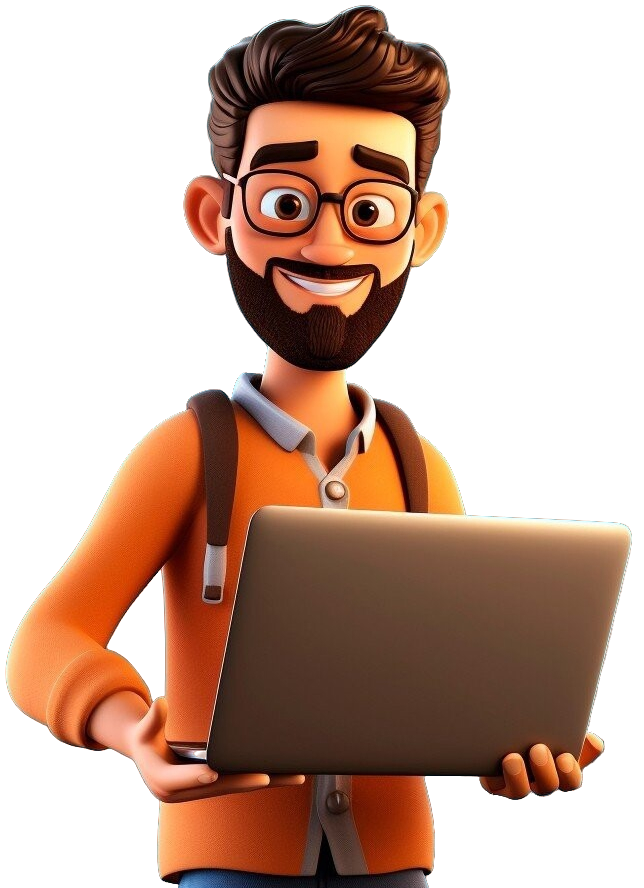
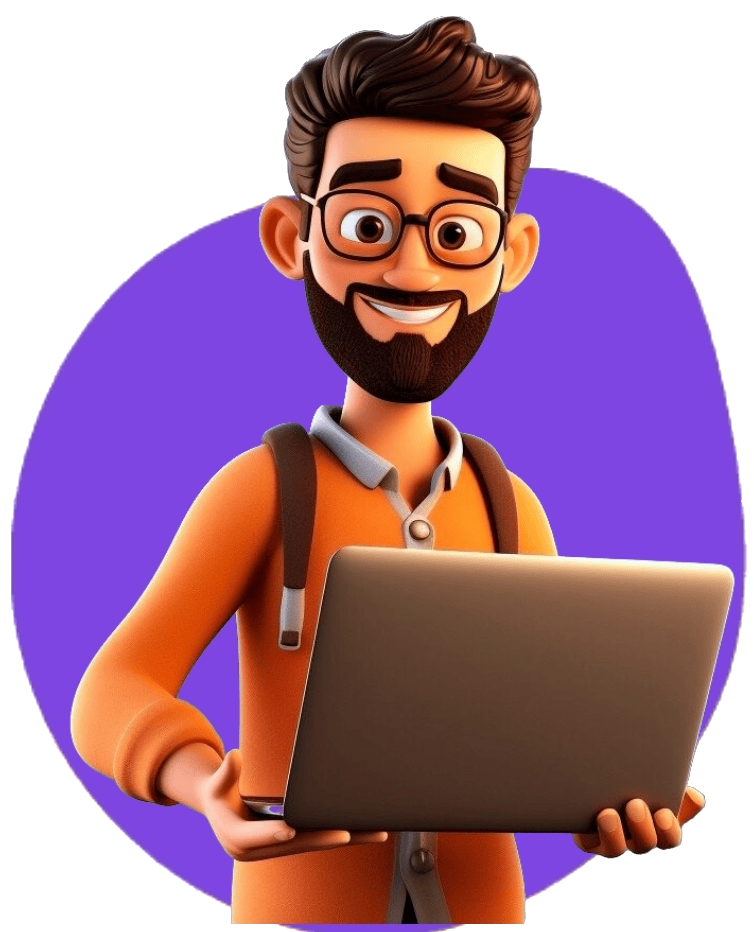
Version 3 About page Uf

diff --git a/src/pages/HomePage.jsx b/src/pages/HomePage.jsx
@@ -1,29 +1,47 @@
 import myProfile from "../assets/images/myProfile.png";
 import MyAccounts from "../components/MyAccounts";
+import { TypeAnimation } from "react-type-animation";
 // import backGround from "../assets/images/background.png";
 
 const HomePage = ({ homeRef }) => {
     
     return (
-        <section ref={homeRef} className="font-poppins flex items-center justify-center bg-no-repeat">
-            <div className="px-[5rem] mt-[3rem] z-50">
+        <section ref={homeRef} className="font-poppins h-lvh flex items-center justify-center bg-no-repeat">
+            <div className="px-[5rem] mt-[4rem] z-50">
                 <div className="flex items-center justify-evenly p-3 gap-2 md:flex-row flex-col-reverse">
-                    <div className="basis-[50%]">
-                        <p className="mb-3 text-xl md:text-left text-center">Hi I'm Marc </p>
-                        <h2 className="text-5xl font-bold mb-2 text-secondary">I'm a FrontEnd Web Dev.</h2>
-                        <p className="text-[14px] mb-8">Lorem ipsum dolor, sit amet consectetur adipisicing elit. Provident eaque quisquam ipsum dolor illum! Harum, asperiores.</p>
-                        <div>
+                    <div className="min-w-[50%] basis-[50%]">
+                        <p className="mb-3 md:text-left text-center text-zinc-500 text-xl">Hi I'm Marc </p>
+                        <h1 className="text-6xl font-bold mb-2 text-secondary text-center md:text-left">
+                            <span>
+                                <p className="mb-4">
+                                    I'm a
+                                </p>
+                            </span>
+                            <TypeAnimation 
+                                sequence={[
+                                    "Frontend Dev",
+                                    1000,
+                                    "Web Designer",
+                                    1000,
+                                ]}
+                                wrapper="span"
+                                speed={50}
+                                repeat={Infinity}
+                            />
+                        </h1>
+                        <p className="text-[14px] mb-8 md:text-left text-center">Lorem ipsum dolor, sit amet consectetur adipisicing elit. Provident eaque quisquam ipsum dolor illum! Harum, asperiores.</p>
+                        <div className="mb-3">
                             <MyAccounts />
                         </div>
                     </div>
                     
-                    <div>   
+                    <div className="bg-hero-bg bg-contain ">   
                         <img 
                             src={myProfile} 
                             alt="my picture" 
                             className="md:w-[450px] w-[300px] mb-4"
                         />
-                    </div>
+                    </div> 
                 </div>
             </div>
         </section>

diff --git a/src/pages/AboutPage.jsx b/src/pages/AboutPage.jsx
@@ -1,15 +1,21 @@
+import myProfile from "../assets/images/myProfile.png";
+
 const AboutPage = ({ aboutRef }) => {
     return (
-        <section ref={aboutRef} className="h-lvh">
-            <div className="px-[5rem] mt-[5rem] border-2 border-green-400">
-                <div>
-                    <div className="p-3">
-                        <h1>About Me</h1>
-                        <p>I am a passionate and detail-oriented frontend developer with a keen eye for design and a love for creating seamless user experiences. With a strong foundation in HTML, CSS, and JavaScript, I specialize in translating design concepts into responsive and interactive web applications. I am dedicated to staying up-to-date with the latest technologies and trends in the rapidly evolving field of web development.</p>
+        <section ref={aboutRef} className="h-lvh bg-gray-100 flex items-center justify-center mt-[4rem]">
+            <div className="px-[5rem] mt-[4rem]">
+                <div className="p-3 flex items-center justify-center gap-3 md:flex-row flex-col">
+                    <div className="basis-[40%] flex items-center justify-center ">
+                        <img 
+                            src={myProfile} 
+                            alt="About me profile" 
+                            className="md:w-[450px] w-[350px]"
+                        />
                     </div>
 
-                    <div>
-
+                    <div className="p-3 basis-[45%] ">
+                        <h1 className="md:text-5xl text-4xl font-semibold text-secondary mb-3  md:text-left text-center">About Me</h1>
+                        <p className="leading-2 text-[13px]  md:text-left text-center mb-[3rem]">I am a passionate and detail-oriented frontend developer with a keen eye for design and a love for creating seamless user experiences. With a strong foundation in HTML, CSS, and JavaScript, I specialize in translating design concepts into responsive and interactive web applications. I am dedicated to staying up-to-date with the latest technologies and trends in the rapidly evolving field of web development.</p>
                     </div>
                 </div>
             </div>

diff --git a/src/components/Nav.jsx b/src/components/Nav.jsx
@@ -4,6 +4,7 @@ import { FaMoon, FaBars, FaSun, FaXRay } from 'react-icons/fa';
 import { Menu, X } from "lucide-react";
 
 
+
 const Nav = ({ handleSmoothScroll, homeRef, aboutRef, skillsRef, servicesRef, contactRef }) => {
    const [isSticky, setIsSticky] = useState(false);
    const [isDark, setIsDark] = useState(false);
@@ -33,7 +34,7 @@ const Nav = ({ handleSmoothScroll, homeRef, aboutRef, skillsRef, servicesRef, co
    },[]);
 
    return (
-      <nav className={`fixed w-full top-0 left-0 z-[999] transition-all ${isSticky ? 'bg-gray-50 ' : 'bg-transparent text-red'}`}>
+      <nav className={`fixed w-full top-0 left-0 z-[999] transition-all ${isSticky ? 'bg-gray-50' : 'bg-transparent'}`}>
          <div className="flex items-center justify-between h-[4rem] w-full md:px-[9rem] px-[4rem] font-poppins text-primary relative">
                <div>
                   <img 
@@ -66,14 +67,14 @@ const Nav = ({ handleSmoothScroll, homeRef, aboutRef, skillsRef, servicesRef, co
                </div>
                
 
-               <div className={`md:hidden block absolute w-2/4 h-screen px-5 bg-gray-300 top-0 duration-300 ${isOpen ? 'right-0' : 'right-[-100%]'}`}>
-                  <ul className="flex flex-col justify-center items-start h-full gap-10 text-md px-5 text-lg list-none" >
+               <div className={`md:hidden block absolute w-2/4 h-screen px-5 bg-gray-200 top-0 duration-300 ${isOpen ? 'right-0' : 'right-[-100%]'}`}>
+                  <ul className="flex flex-col justify-center t h-full gap-8 text-md px-1 text-lg list-none" >
                      {
                            menuLinks.map((menu) => (
                               <li 
                                  key={menu.name}
                                  onClick={() => handleSmoothScroll(menu.navRef)}
-                                 className="hover-button cursor-pointer"
+                                 className="p-2 hover:bg-gray-300 cursor-pointer transition duration-200 linear"
                               >
                                  { menu.name}
                               </li>

diff --git a/src/components/MyAccounts.jsx b/src/components/MyAccounts.jsx
@@ -2,7 +2,7 @@ import { FaInstagram, FaFacebook, FaLinkedin, FaTwitter } from "react-icons/fa";
 
 const MyAccounts = () => {
     return (
-        <div className="flex gap-[1rem]">
+        <div className="flex gap-[1rem] justify-center md:justify-start">
             <a href="https://www.instagram.com/nnnngelo/">
                 { <FaInstagram 
                     className="text-secondary text-[26px] hover-links-accounts"

diff --git a/tailwind.config.js b/tailwind.config.js
@@ -28,6 +28,9 @@ export default {
       transitionTimingFunction: {
         'linear': 'linear',
       },
+      backgroundImage: {
+        'hero-bg': "url('../assets/images/hero-blob.png')"
+      },
     },
   },
   plugins: [],

diff --git a/src/App.jsx b/src/App.jsx
@@ -22,6 +22,7 @@ const App = () => {
    const handleSmoothScroll = (page) => {
       page.current.scrollIntoView({
          behavior: 'smooth',
+         inline: 'center',
       });
    };
 
